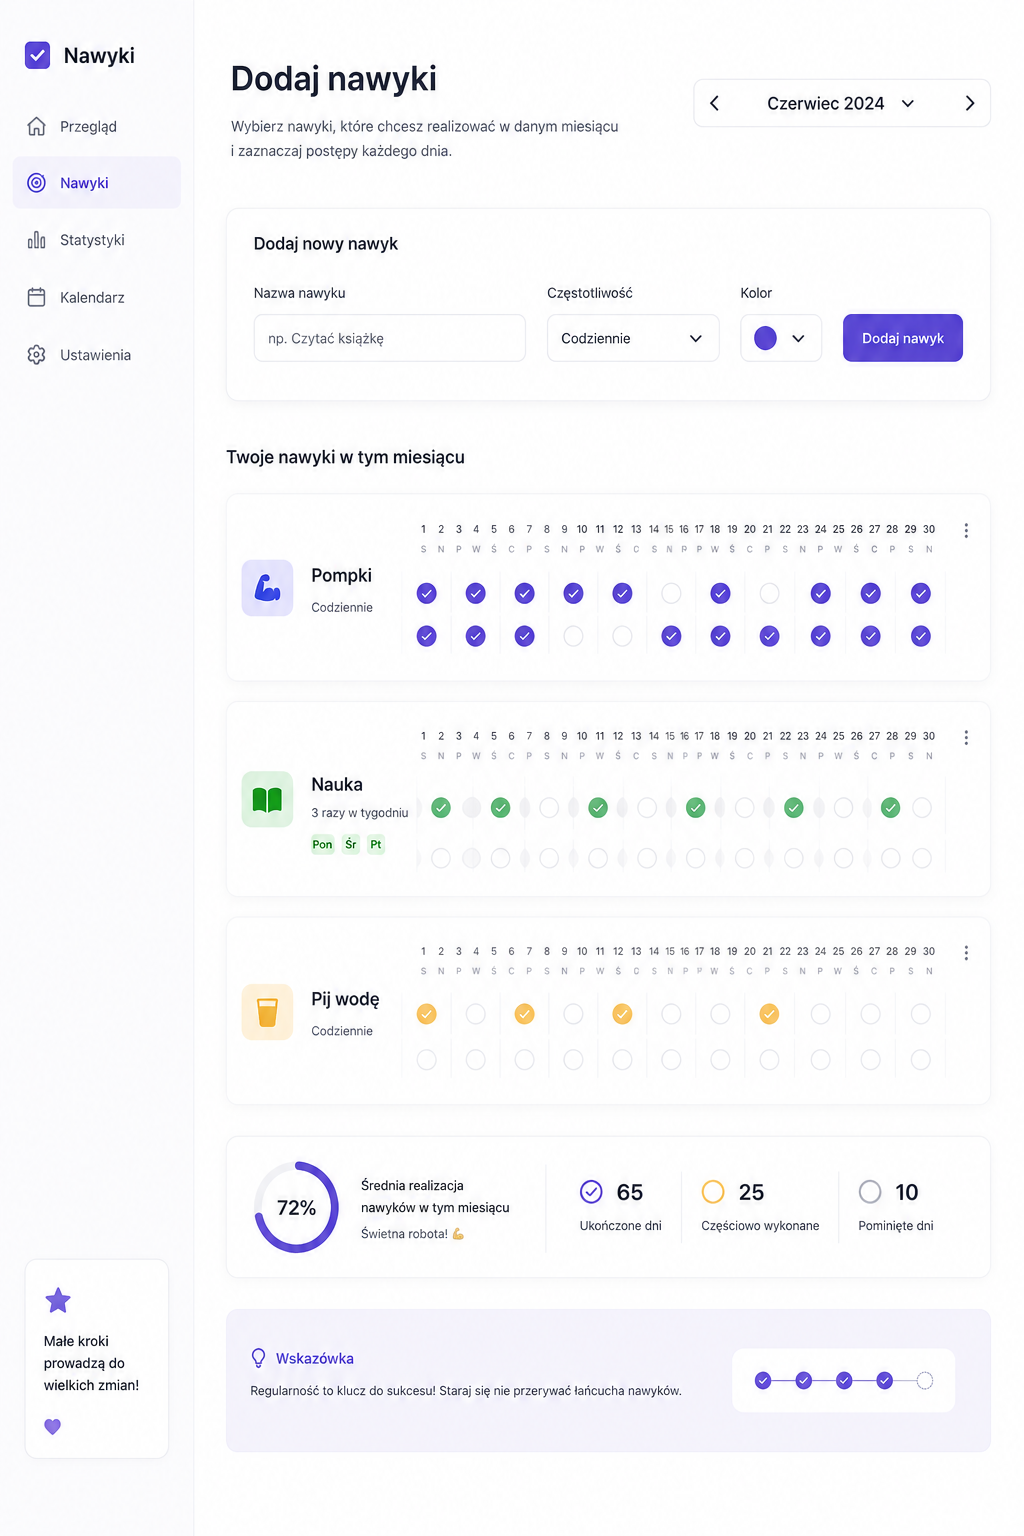
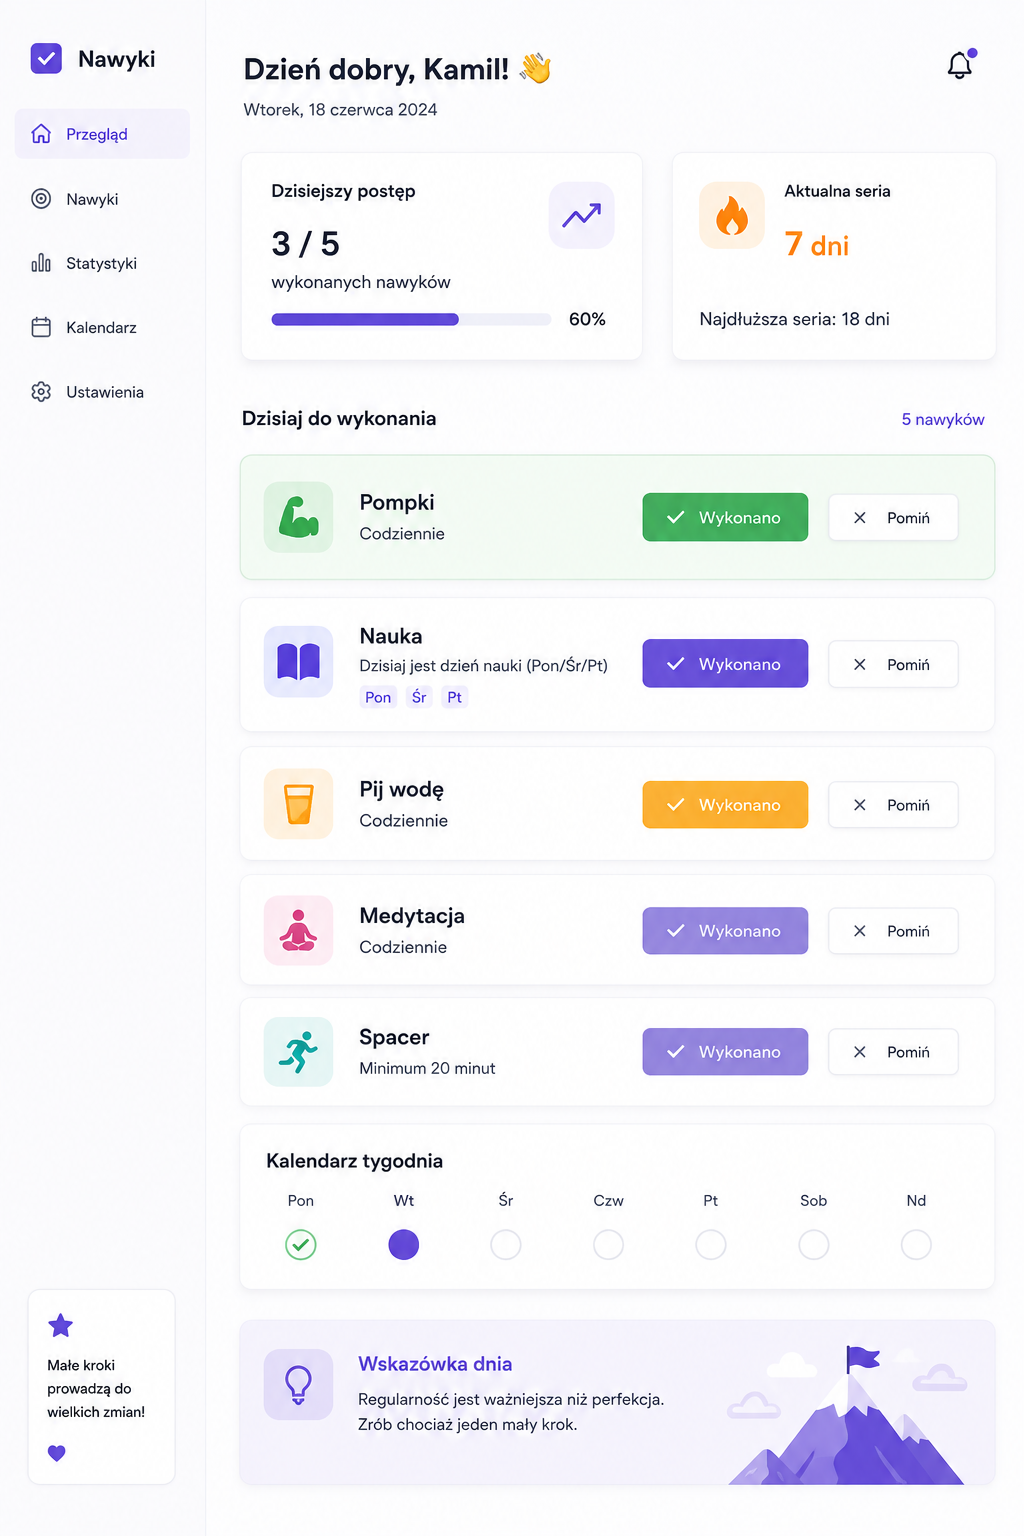
alpha 1.22

diff --git a/habbithub/html/index.html b/habbithub/html/index.html
@@ -134,7 +134,39 @@
       </section>
 
       <!-- DAY TO DO -->
-      <section class="section-day-todo"></section>
+      <section class="section-day-todo">
+        <div class="container">
+          <div class="to-do-text-box">
+            <h2 class="heading-secondary">Dzisiaj do wykonania</h2>
+            <p class="habit-count-text">5 nawyków</p>
+          </div>
+          <div class="container-daily-habits">
+            <div class="desc-daily-habits">
+              <div class="img-box img-box--habit">
+                <img
+                  class="habit-icon"
+                  src="../icons/piggy-bank-save-svgrepo-com.svg"
+                  alt=""
+                />
+              </div>
+              <div class="text-daily-habits">
+                <h3 class="heading-tertiary habit-title">Oszczędzanie</h3>
+                <p class="p-daily-habits">Codziennie</p>
+              </div>
+            </div>
+            <div class="container-daily-habbits-btn">
+              <button class="btn btn--done">
+                <img class="nav-icon" src="../icons/done-v-svgrepo-com.svg" alt="">
+                Wykonano
+              </button>
+              <button class="btn btn--skip">
+                <img class="nav-icon" src="../icons/close-svgrepo-com (3).svg" alt="">
+                Pomiń
+              </button>
+            </div>
+          </div>
+        </div>
+      </section>
     </main>
 
     <script src="https://cdn.jsdelivr.net/npm/apexcharts"></script>

diff --git a/habbithub/css/styles.css b/habbithub/css/styles.css
@@ -80,7 +80,7 @@
 /* DAY SUMMARY */
 /*******************************************/
 .section-day-summary {
-  padding: 4.8rem 0 9.6rem 0;
+  padding: 4.8rem 0 3.2rem 0;
 }
 
 .day-summary-text-box {
@@ -157,6 +157,71 @@
   border-radius: 6px;
   overflow: hidden;
   height: 12px;
+}
+
+/*******************************************/
+/* DAY TO DO */
+/*******************************************/
+.to-do-text-box {
+  margin: 1.6rem 3.2rem;
+  display: flex;
+  align-items: center;
+  justify-content: space-between;
+}
+
+.habit-count-text {
+  font-size: 1.4rem;
+  color: #726bea;
+}
+
+.container-daily-habits {
+  display: flex;
+  justify-content: space-between;
+  margin: 0 3.2rem;
+  border: 1px solid lightgrey;
+  border-radius: 9px;
+  box-shadow: 2px 2px 5px #e2e2e2;
+  padding: 2.4rem;
+}
+
+.desc-daily-habits {
+  display: flex;
+  gap: 2.4rem;
+}
+
+.text-daily-habits {
+  display: flex;
+  flex-direction: column;
+  align-items: flex-start;
+  justify-content: center;
+}
+
+.habit-title {
+  margin-bottom: 1.2rem;
+}
+
+.img-box--habit {
+  /* JS */
+  background-color: rgb(212, 233, 212);
+}
+
+.p-daily-habits {
+  font-size: 1.6rem;
+}
+
+.container-daily-habbits-btn {
+  display: flex;
+  align-items: center;
+  gap: 1.6rem;
+}
+
+.btn--skip {
+  background-color: #fff;
+}
+
+.btn--done {
+  background-color: rgb(42, 172, 42);
+  color: white;
 }
 
 /*******************************************/

diff --git a/habbithub/css/general.css b/habbithub/css/general.css
@@ -22,7 +22,8 @@ Heading: 1.05
 - Primary: 
 #4f46e5
 
-- Tints: 
+- Tints:
+#726bea 
 #fdfdff 
 #fafafe 
 #dcdafa
@@ -41,7 +42,7 @@ Heading: 1.05
 #333
 
 --- 05 SHADOWS
-
+box-shadow: 2px 2px 5px #e2e2e2;
 --- 06 BORDER-RADIUS
 
 - Defualt: 9px
@@ -99,8 +100,17 @@ main {
   margin-bottom: 1.2rem;
 }
 
+.heading-secondary {
+  font-size: 2.4rem;
+  font-weight: 6000;
+  line-height: 1.05;
+  color: #333;
+  letter-spacing: -0.5px;
+  margin-bottom: 1.2rem;
+}
+
 .heading-tertiary {
-  font-size: 1.6rem;
+  font-size: 1.8rem;
   color: #333;
   margin-bottom: 2.4rem;
 }
@@ -110,4 +120,22 @@ main {
   width: 7rem;
   border-radius: 18px;
   padding: 1.2rem;
+}
+
+.habit-icon {
+  display: block;
+  height: auto;
+  max-width: 100%;
+}
+
+.btn {
+  padding: 0.8rem 1.6rem 0.8rem 1.6rem;
+  border: none;
+  border-radius: 9px;
+  box-shadow: 0 0 5px #cacaca;
+  cursor: pointer;
+  display: flex;
+  align-items: center;
+  justify-content: center;
+  gap: 0.8rem;
 }
